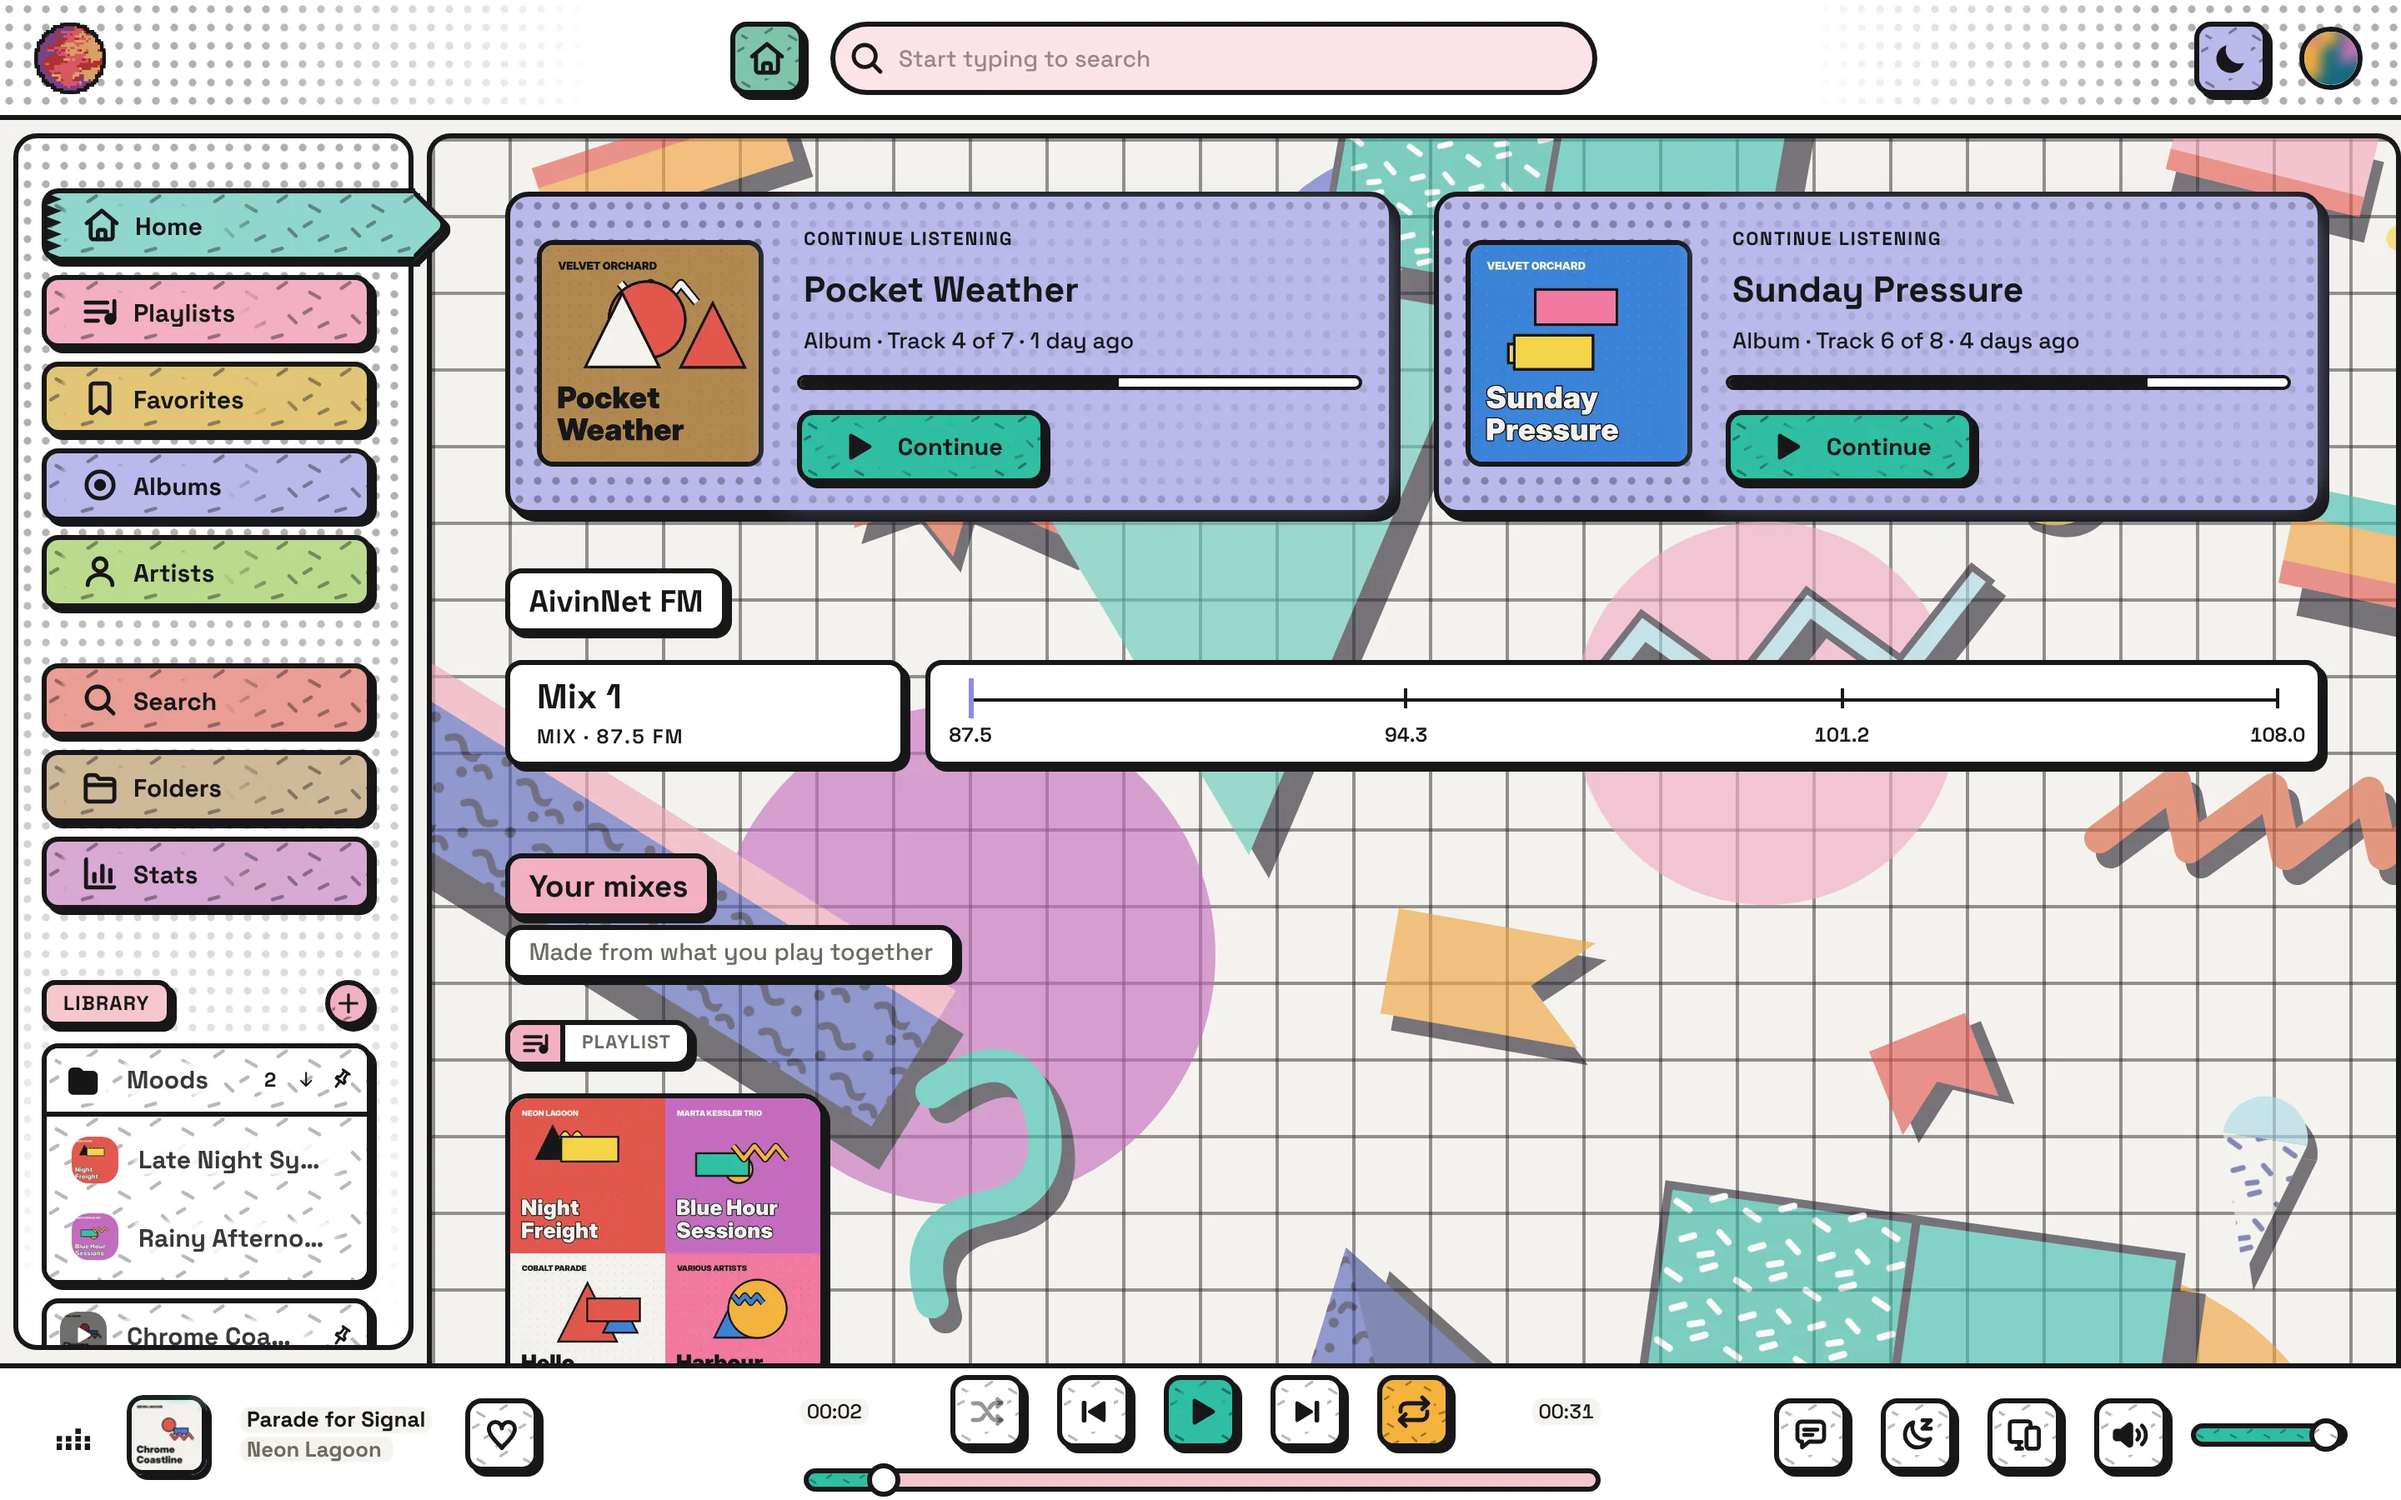
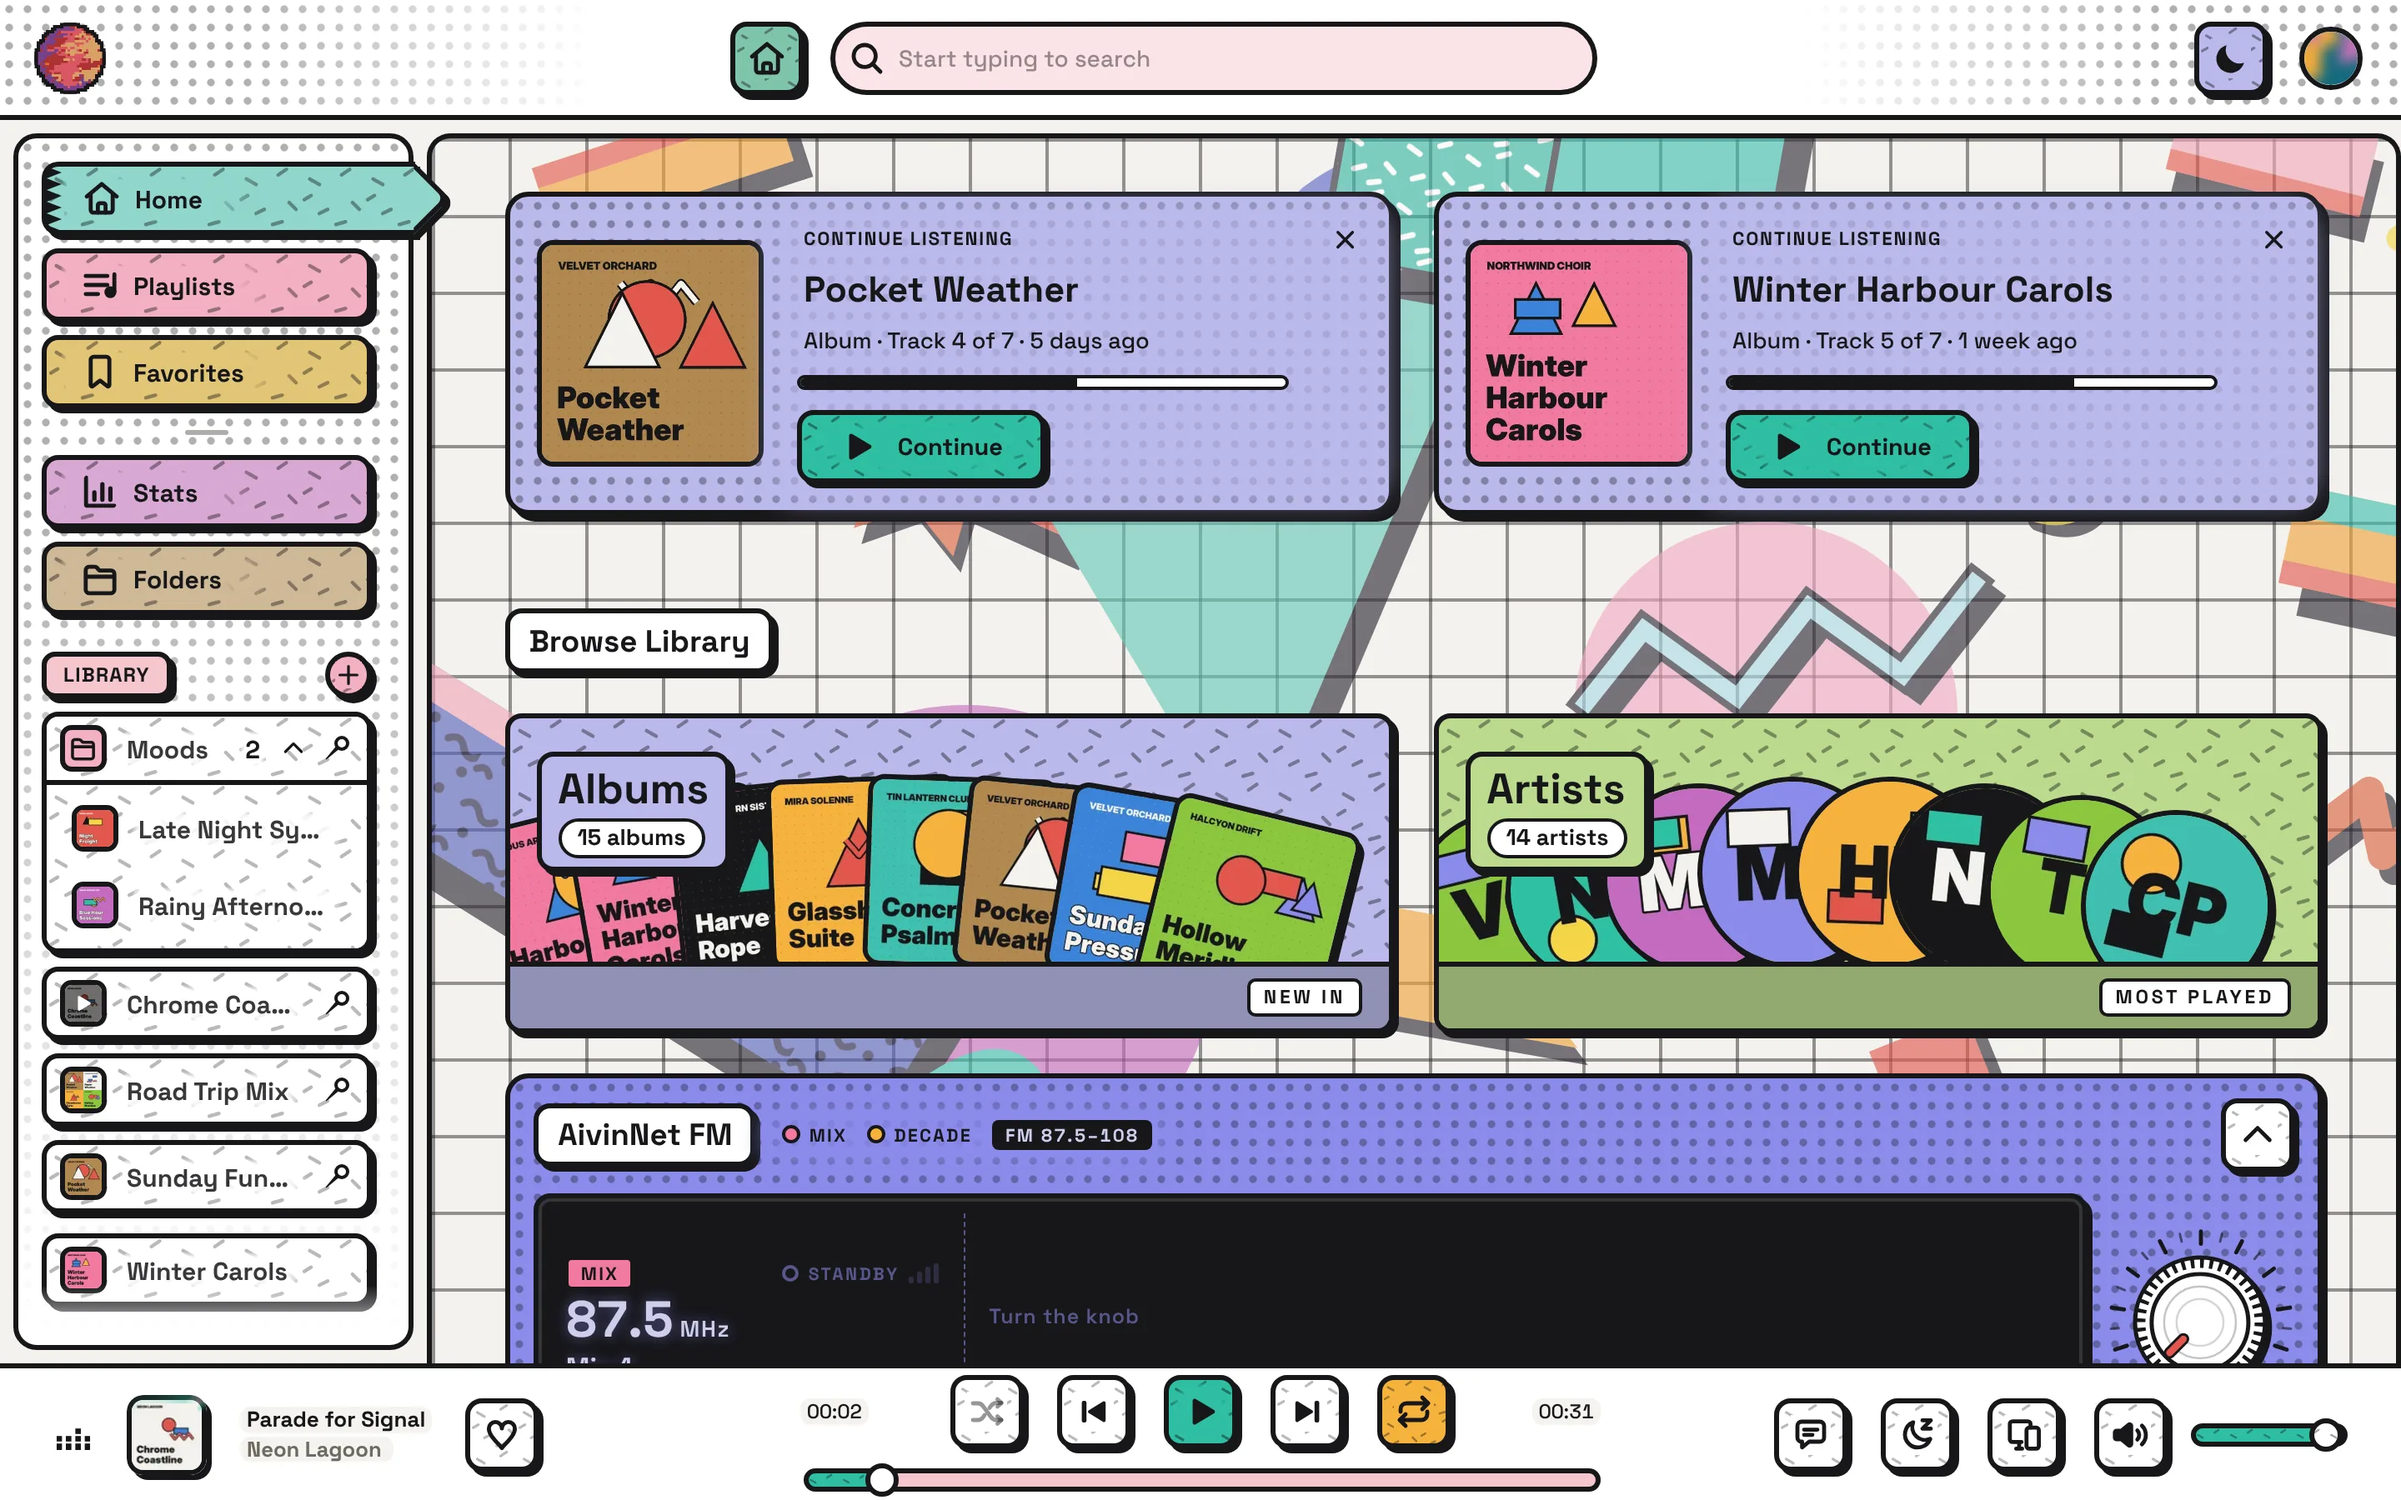
chore(demo): seed track ratings, show AivinNet FM, fresh screenshots
The demo seed rates 25 tracks (POST /ratings/set) so "Your top rated" and the
stars have something to show. The screenshot script switches AivinNet FM on
(open on the desktop, the strip on the phone), since it is now off until
switched on. Screenshots, home.png and the demo clip are retaken on the
current master: the slimmer sidebar, Browse Library as record crates, the new
radio, the queue sections.

Claude-Session: https://claude.ai/code/session_01MjKC1nG7y3H6QY8vhRBa3n

diff --git a/scripts/demo/screenshots.js b/scripts/demo/screenshots.js
@@ -43,6 +43,19 @@ async function open(browser, { phone = false, dark = false, date = PLAIN_DATE } 
     })
     const login = await context.request.post(`${BASE}/auth/login`, { data: { username: 'admin', password: PASSWORD } })
     if (!login.ok()) throw new Error(`login failed: ${login.status()}`)
+    // AivinNet FM is off until switched on (Settings → Home, per device); the shots show it,
+    // open on the desktop and folded to its strip on the phone. The settings store is
+    // persisted under "settings" and hydrated by $patch, so these two keys are enough.
+    await context.addInitScript((open) => {
+        try {
+            const stored = JSON.parse(localStorage.getItem('settings') || '{}')
+            if (stored.show_radio === undefined) {
+                localStorage.setItem('settings', JSON.stringify({ ...stored, show_radio: true, radio_open: open }))
+            }
+        } catch {
+            // no storage: the shots go without the radio
+        }
+    }, !phone)
     const page = await context.newPage()
     await page.clock.setFixedTime(new Date(date))
     return { context, page }

diff --git a/scripts/demo/seed.py b/scripts/demo/seed.py
@@ -11,7 +11,8 @@ What it does, in order:
   2. adds the music folder as a root dir (the server scans it) and waits for the albums;
   3. creates playlists (one inside a folder), pins 2 playlists and 1 album, favourites
      10 tracks, 3 albums and 2 artists;
-  4. writes ~10 weeks of plays through the real `POST /logger/track/log` endpoint, plus
+  4. rates 25 tracks 1 to 5 stars through the real `POST /ratings/set` endpoint;
+  5. writes ~10 weeks of plays through the real `POST /logger/track/log` endpoint, plus
      a few plays on this calendar day one and two years back for "On this day".
 
 Home rows are computed at server start and by the hourly crons. After seeding, restart
@@ -41,6 +42,10 @@ WEEKS = 10
 ALBUM_COUNT = 15  # 14 albums plus the compilation, see make_library.py
 PLAY_PROBABILITY = 0.75
 PLAY_TRACKS = (3, 7)
+# Never played (see build_history): not rated either, so the demo keeps it unheard.
+UNPLAYED_ALBUMS = {"Small Hours Folk"}
+# (stars, tracks): the 5- and 4-star songs feed "Your top rated" (#777).
+RATING_PLAN = ((5, 12), (4, 8), (3, 3), (1, 2))
 
 
 class Api:
@@ -234,6 +239,25 @@ def seed_favorites(api: Api, albums: list[dict], songs: list[Song]) -> list[Song
     return picks
 
 
+def seed_ratings(api: Api, songs: list[Song], rng: random.Random) -> int:
+    """Rate 25 tracks, 12 of them 5 stars, 8 at 4, 3 at 3 and 2 at 1.
+
+    The pool leaves out the never-played album, and the rest are albums that the history
+    below plays, so the ratings sit on songs the user has heard. The tracks are drawn from
+    the seeded generator, so the same library gives the same ratings.
+    """
+    pool = [s for s in songs if s.album not in UNPLAYED_ALBUMS]
+    chosen = rng.sample(pool, sum(count for _, count in RATING_PLAN))
+    done = 0
+    start = 0
+    for stars, count in RATING_PLAN:
+        for s in chosen[start : start + count]:
+            api.must("POST", "/ratings/set", {"trackhash": s.trackhash, "rating": stars})
+            done += 1
+        start += count
+    return done
+
+
 def find_album_artists(albums: list[dict], name: str) -> list[dict]:
     return [a for album in albums for a in album.get("albumartists", []) if a["name"] == name][:1]
 
@@ -250,7 +274,7 @@ def build_history(
       - Some sessions mix albums of different artists: Because you listened, Your mixes.
       - The last 7 days repeat one album's tracks: On repeat.
     """
-    unplayed = {"Small Hours Folk"}
+    unplayed = UNPLAYED_ALBUMS
     quiet = {"Hollow Meridian", "Glasshouse Suite"}
     forgotten = {s.trackhash for s in favorites[:3]}
 
@@ -399,6 +423,7 @@ def main() -> int:
     print(f"playlists: {len(playlists)} (folder 'Moods' holds 2), pinned 2 playlists + 1 album")
     favorites = seed_favorites(api, albums, songs)
     print(f"favourites: {len(favorites)} tracks, 3 albums, 2 artists")
+    print(f"ratings: {seed_ratings(api, songs, rng)} set")
 
     pictures = Path(args.artist_images) if args.artist_images else Path(args.music.rstrip("/") + "-artists")
     print(f"artist pictures: {seed_artist_images(api, pictures)} uploaded")

diff --git a/scripts/demo/README.md b/scripts/demo/README.md
@@ -53,7 +53,7 @@ uv run --frozen python scripts/demo/seed.py \
 
 The script adds the music folder as a root dir and waits for the scan. It then creates
 5 playlists (two of them in the folder "Moods"), pins 2 playlists and 1 album, marks 10 tracks,
-3 albums and 2 artists as favourites, uploads the artist pictures, and records about 590 plays from the last 10 weeks, plus
+3 albums and 2 artists as favourites, rates 25 tracks, uploads the artist pictures, and records about 590 plays from the last 10 weeks, plus
 a few plays on this date one and two years back.
 
 `--today` anchors the history. Leave it out to anchor on the current date. A fixed date gives the
